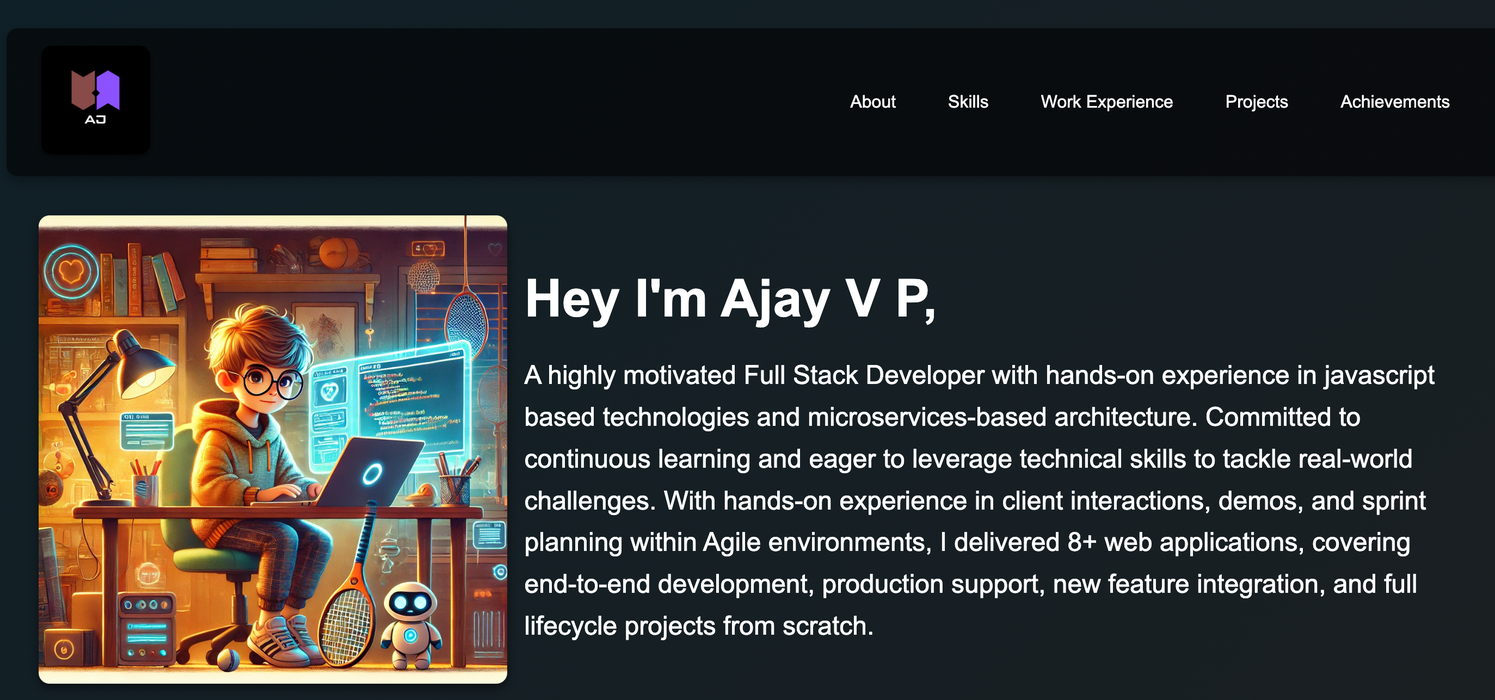
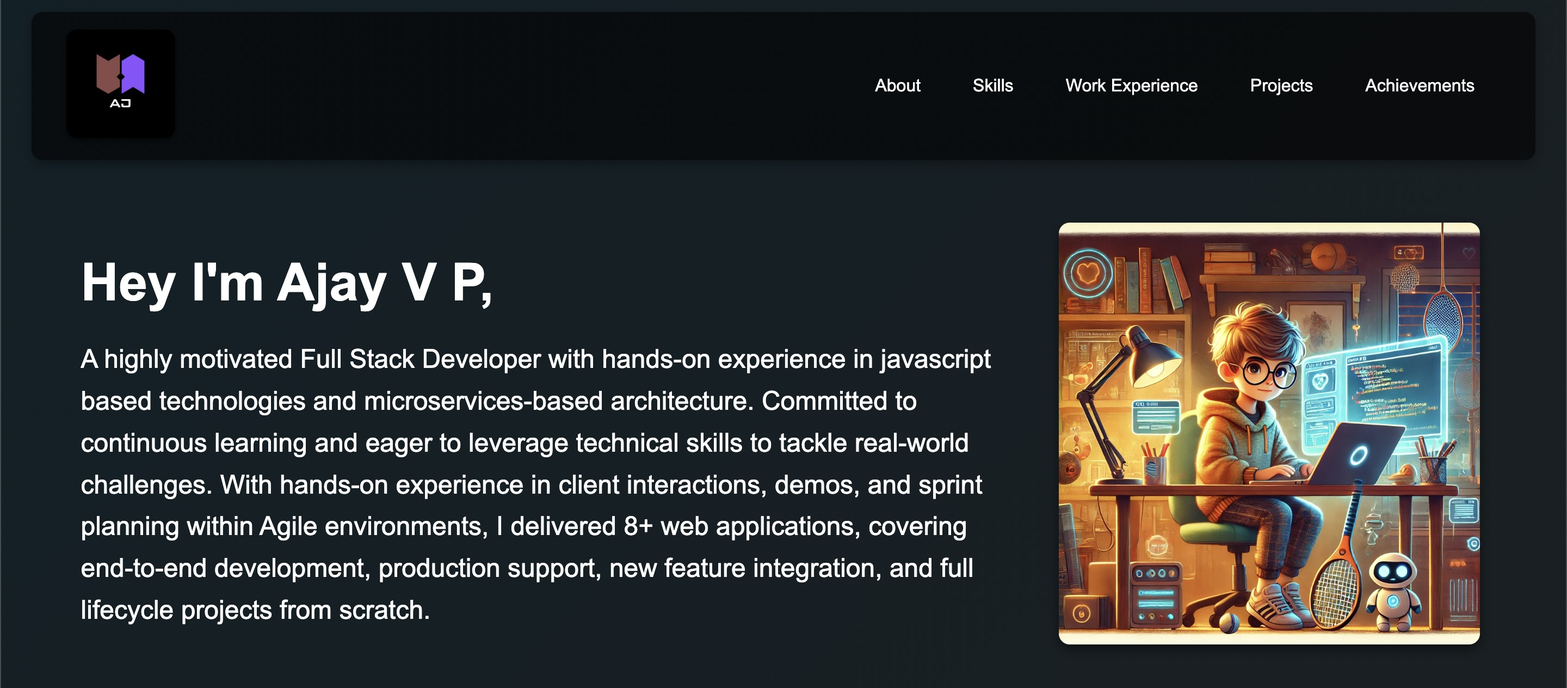
changes in images and css

diff --git a/index.css b/index.css
@@ -156,7 +156,7 @@ li {
 
 .text-container {
   flex: 1;
-  padding: 1rem;
+  padding: 1rem 0rem 1rem 0rem;
 }
 
 .text-container h2 {
@@ -311,6 +311,14 @@ li {
     margin-top: 1em;
     margin-right: 2em;
   }
+
+  .text-container{
+    padding: 1rem;
+  }
+
+  .about-image {
+    width: 90%;
+  }
   
   .text-container h2 {
     font-size: 3rem;
@@ -324,6 +332,14 @@ li {
 }
 
 @media (min-width: 1600px) {
+  .text-container{
+    padding: 1rem;
+  }
+
+  .about-image {
+    width: 90%;
+  }
+
   .text-container h2 {
     font-size: 3.5rem;
     margin-bottom: 1.5rem;
@@ -336,6 +352,14 @@ li {
 }
 
 @media (min-width: 2000px) {
+  .text-container{
+    padding: 1rem;
+  }
+
+  .about-image {
+    width: 90%;
+  }
+
   .text-container h2 {
     font-size: 4rem;
     margin-bottom: 1.5rem;
@@ -348,6 +372,14 @@ li {
 }
 
 @media (min-width: 2400px) {
+  .text-container{
+    padding: 1rem;
+  }
+
+  .about-image {
+    width: 90%;
+  }
+  
   .text-container h2 {
     font-size: 4.5rem;
     margin-bottom: 1.5rem;

diff --git a/src/components/Body.js b/src/components/Body.js
@@ -11,13 +11,6 @@ import {
 const About = () => {
   return (
     <div className="about-me-container">
-      <div className="image-container">
-        <img
-          src={animatedPic}
-          alt="Geeky Illustration"
-          className="about-image"
-        />
-      </div>
       <div className="text-container">
         <h2>Hey I'm Ajay V P,</h2>
         <p>
@@ -30,6 +23,13 @@ const About = () => {
           development, production support, new feature integration, and full
           lifecycle projects from scratch.
         </p>
+      </div>
+      <div className="image-container">
+        <img
+          src={animatedPic}
+          alt="Geeky Illustration"
+          className="about-image"
+        />
       </div>
     </div>
   );
